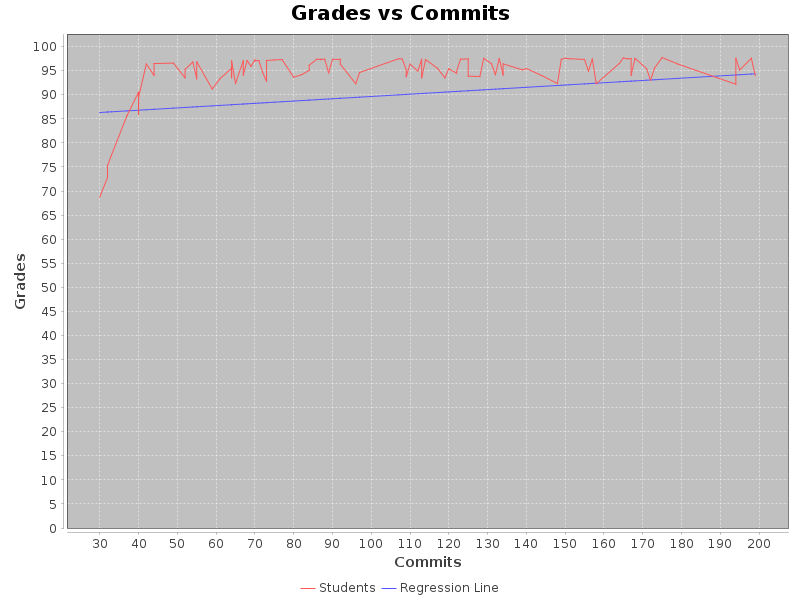
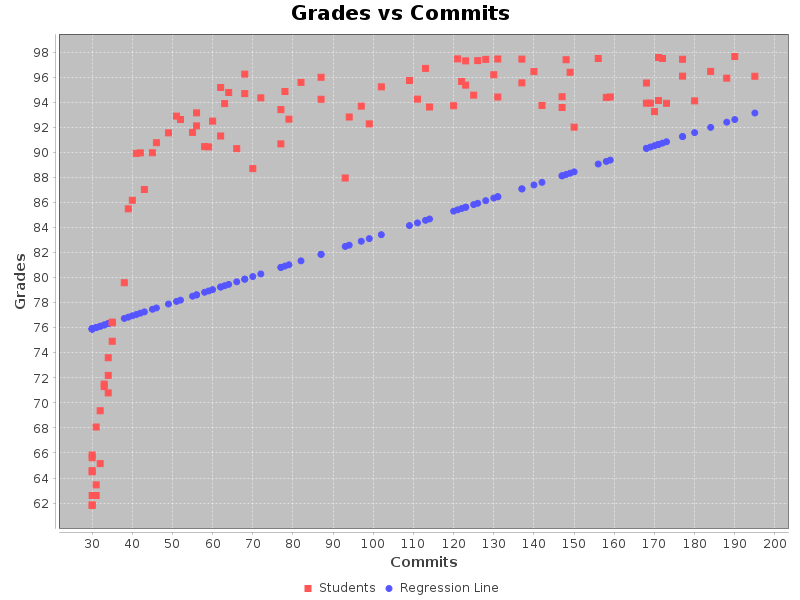
new prob dist and dots

diff --git a/src/main/java/com/nighthawk/spring_portfolio/mvc/models/MockDataGenerator.java b/src/main/java/com/nighthawk/spring_portfolio/mvc/models/MockDataGenerator.java
@@ -10,10 +10,10 @@ public class MockDataGenerator {
         double[][] xData = new double[numStudents][4];
 
         for (int i = 0; i < numStudents; i++) {
-            int commits = 30 + random.nextInt(171); // 30 to 200
-            int pullRequests = 5 + random.nextInt(46); // 5 to 50
-            int issues = 10 + random.nextInt(91); // 10 to 100
-            int reposContributed = 2 + random.nextInt(19); // 2 to 20
+            int commits = 30 + (int) (Math.pow(random.nextDouble(), 2) * 170); // Skewed towards 30
+            int pullRequests = 5 + (int) (commits * 0.25 * random.nextDouble()); // Based on commits
+            int issues = 10 + (int) (commits * 0.5 * random.nextDouble()); // Based on commits
+            int reposContributed = 2 + (int) (commits * 0.1 * random.nextDouble()); // Based on commits
 
             xData[i][0] = commits;
             xData[i][1] = pullRequests;

diff --git a/src/main/java/com/nighthawk/spring_portfolio/mvc/models/MultiVarAnalyticsGradeRegression.java b/src/main/java/com/nighthawk/spring_portfolio/mvc/models/MultiVarAnalyticsGradeRegression.java
@@ -85,18 +85,18 @@ public class MultiVarAnalyticsGradeRegression {
         for (int i = 0; i < xData.length; i++) {
             series.add(xData[i][0], yData[i]);
         }
-
+    
         XYSeries regressionLine = new XYSeries("Regression Line");
         for (int i = 0; i < xData.length; i++) {
             double predictedY = coefficients[0] + coefficients[1] * xData[i][0];
             regressionLine.add(xData[i][0], predictedY);
         }
-
+    
         XYSeriesCollection dataset = new XYSeriesCollection();
         dataset.addSeries(series);
         dataset.addSeries(regressionLine);
-
-        JFreeChart chart = ChartFactory.createXYLineChart(
+    
+        JFreeChart chart = ChartFactory.createScatterPlot(  // <-- Change this line
                 "Grades vs " + metricName,
                 metricName,
                 "Grades",
